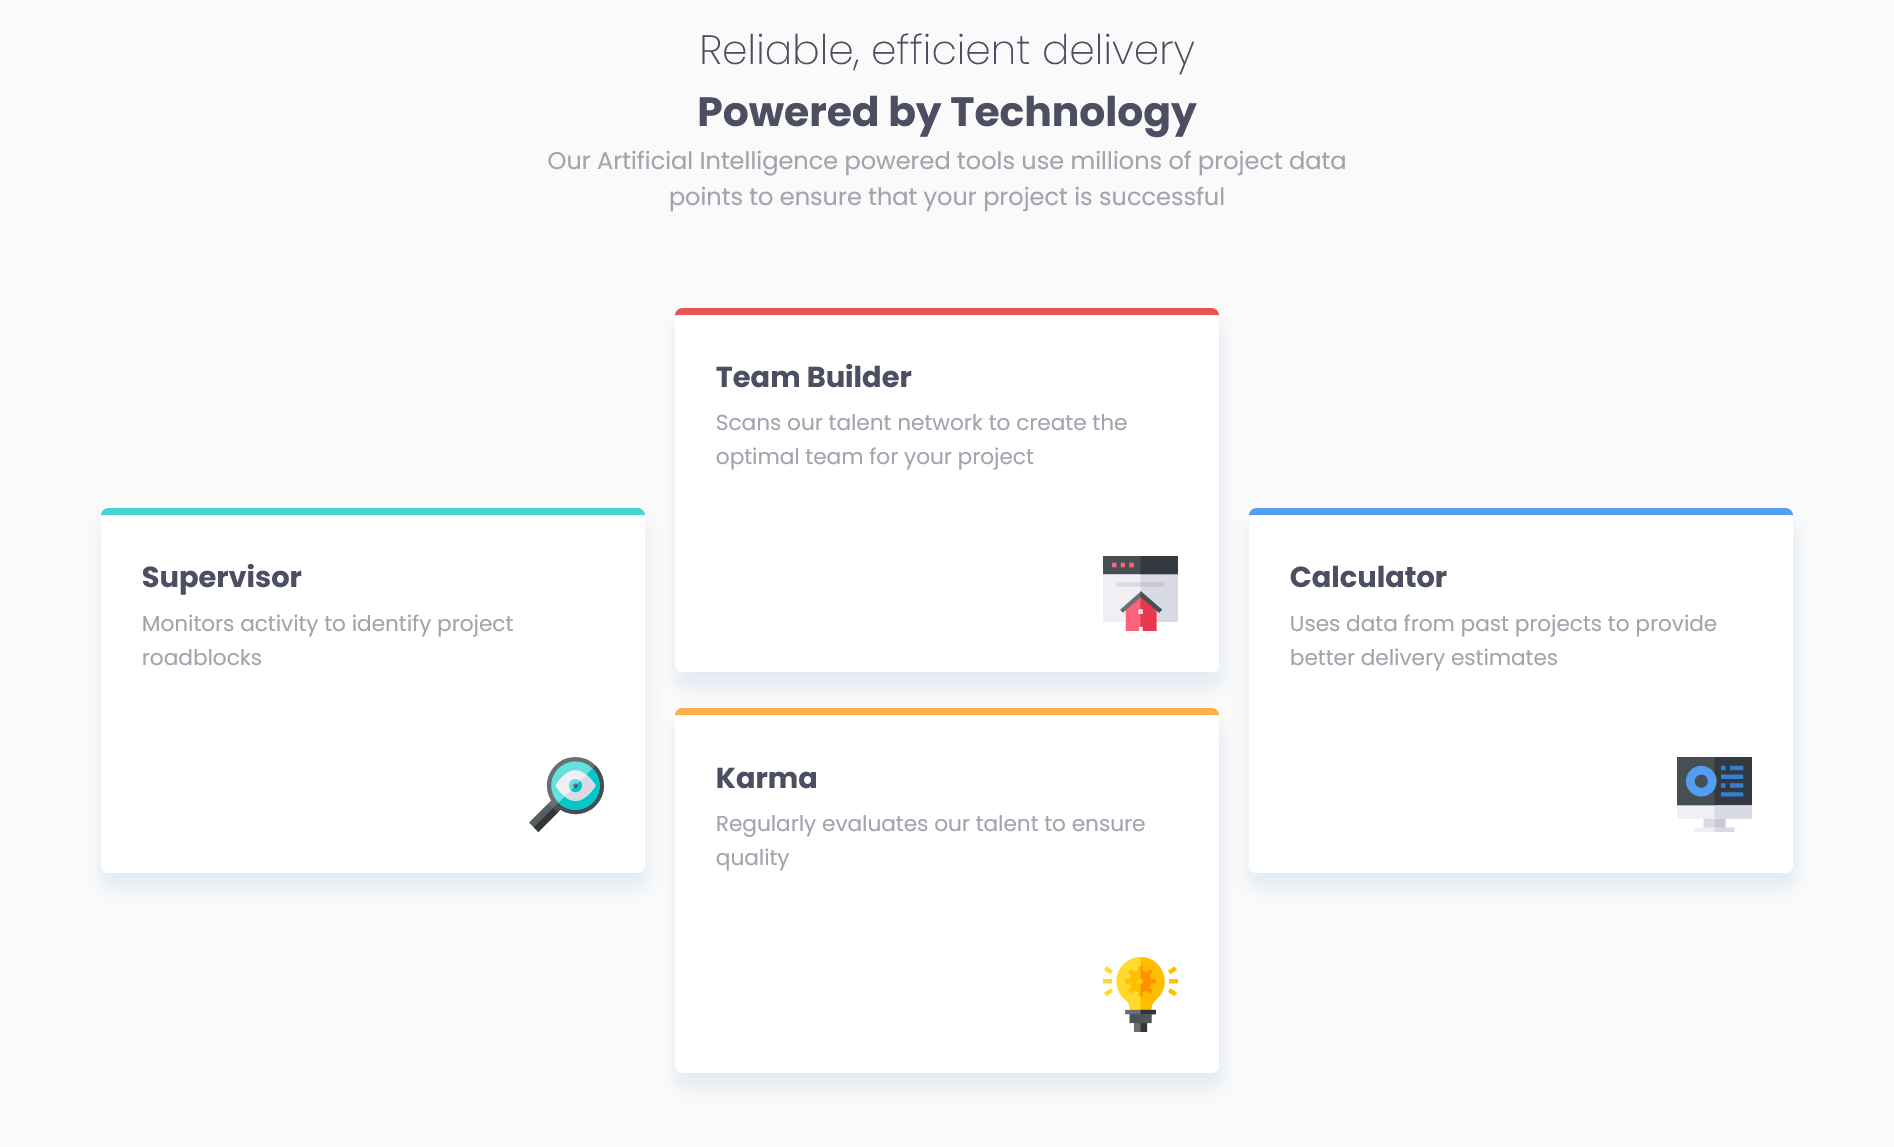
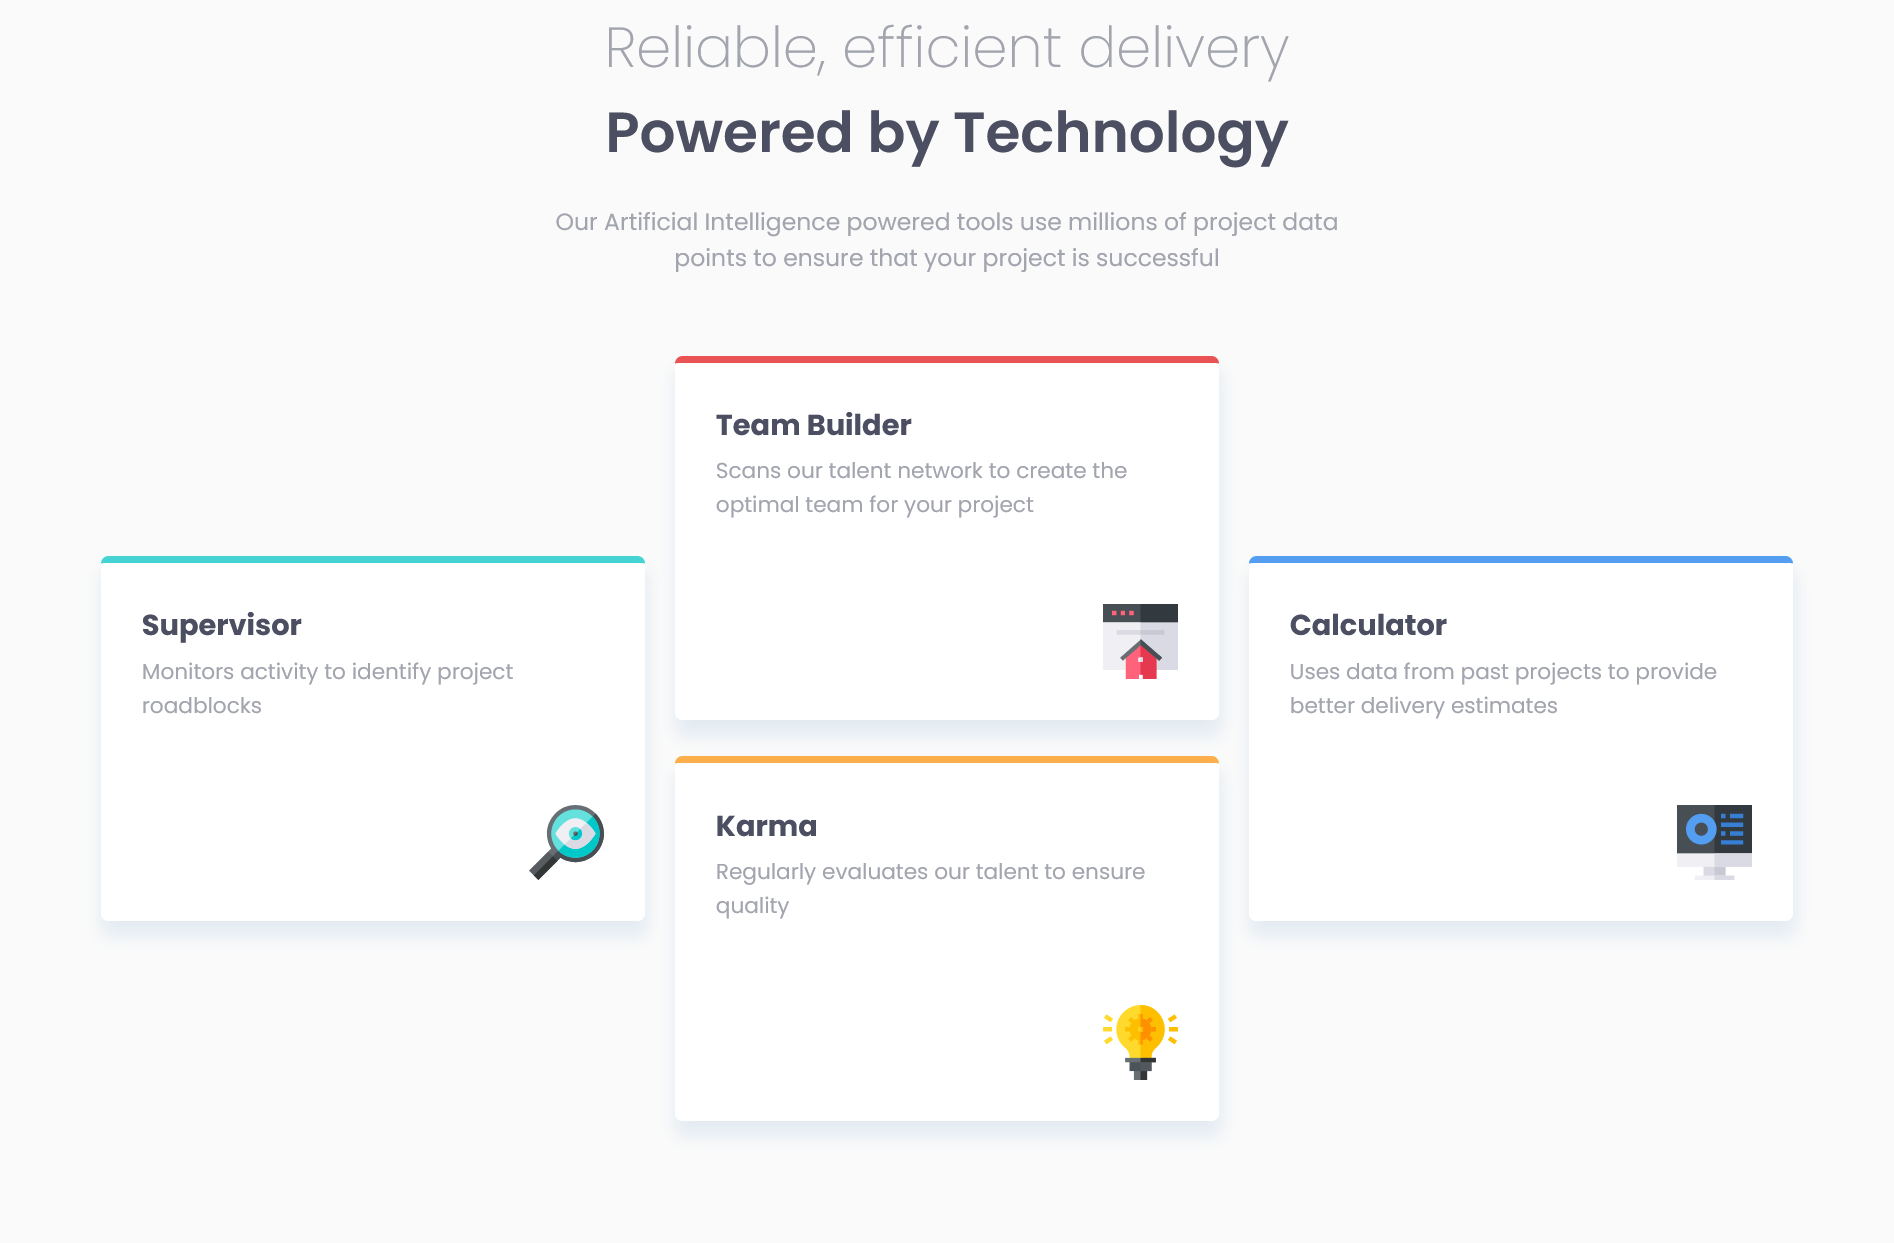
responsive done

diff --git a/style.css b/style.css
@@ -13,6 +13,7 @@ body {
   background-color: hsl(0, 0%, 98%);
   font-family: Poppins;
   font-weight: 400;
+  padding: 2rem;
   /* background-color: red; */
 }
 
@@ -31,12 +32,23 @@ body {
 }
 
 .heading-h {
-  font-size: 1.7rem;
+  font-size: 2.35rem;
   color: hsl(234, 12%, 34%);
 }
 
 .heading-h:nth-of-type(1) {
   font-weight: 200;
+  color: hsl(229, 6%, 66%);
+}
+
+.heading-h:nth-of-type(2) {
+  font-weight: 600;
+}
+
+.heading-p {
+  font-size:0.98rem;
+  margin-top: 1.2rem;
+  margin: 1.2rem 0 2rem 0;
 }
 
 .box-grid {
@@ -112,19 +124,35 @@ body {
 
 @media (max-width: 500px) {
   body {
-    background-color: greenyellow;
+    padding: 0;
   }
   .container {
     grid-template-rows: 1fr 3fr;
+    max-width: 70vw;
   }
   .heading {
     width: 100%;
   }
+  .heading-h {
+    font-size: 1.56rem;
+  }
+  .heading-p {
+    margin: 0;
+  }
   .box-grid {
     grid-template-rows: 1fr 2fr 1fr;
     grid-template-columns: 1fr;
+    margin-top: -20px;
   }
   .box {
     width: 100%;
+    margin-bottom: 1.5rem;
+    /* margin: 0; */
+  }
+  #box1 {
+    margin-right: 0;
+  }
+  #box4 {
+    margin-left: 0;
   }
 }

diff --git a/README.md b/README.md
@@ -10,7 +10,7 @@ Users should be able to:
 ![](./screenshot.png)
 
 - [Solution](https://your-solution-url.com)
-- [Live Site](https://your-live-site-url.com)
+- [Live Site](https://lspacka.github.io/four-card-feature-section-master/)
 
 ### Built with
 
